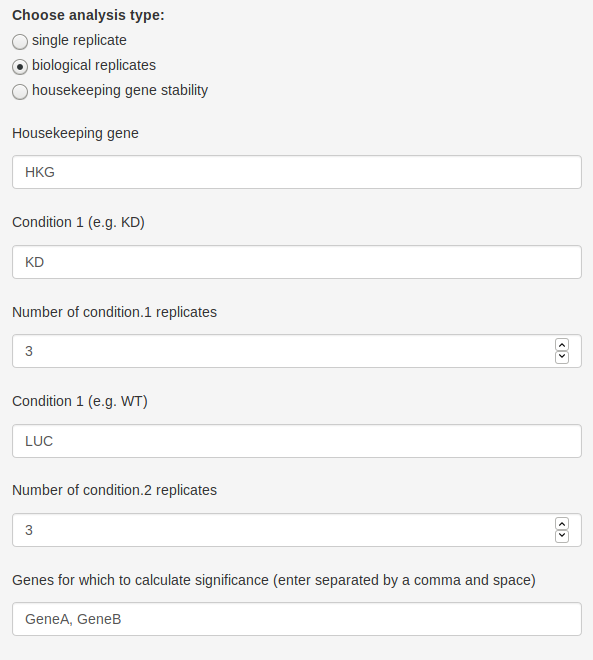
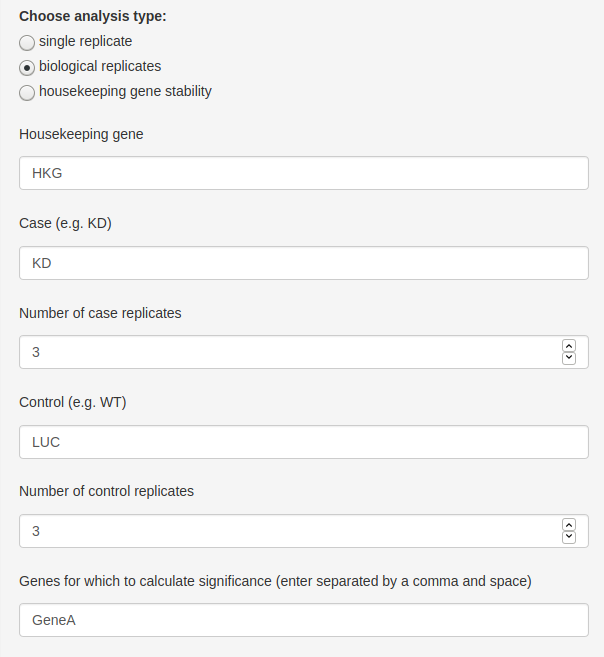
Update shiny app usage documentation

diff --git a/vignettes/shiny_app_usage_github.md b/vignettes/shiny_app_usage_github.md
@@ -127,7 +127,7 @@ The number of replicates defaults to 3, but this can be changed to match whateve
 
 <img src="bioreps_filled_fields.png" width="80%" height="100%" />
 
-Here, the user enters the requested information, then clicks the "Run Analysis!" button. The "Housekeeping gene" field is where the user inputs the gene to be used as the housekeeping for calculations. As before, I have used a generic "HKG" as an example. Case and Control are where you enter the information for the two groups of your samples. Looking at the samplesheet snippet, my two groups are "KD" and "LUC" (a luciferase control). If needed, change the number of replicates to match the number of biological replicates you have - I happen to have 3. The last field is where you enter the genes for which statistical tests need to be computed - this is a two-sample T.test using the `t.test` function in R. The genes *must* be entered as shown - i.e. text separated by a comma then a space. Gene names are whatever was entered for the "Detector" field in the samplesheet.
+Here, the user enters the requested information, then clicks the "Run Analysis!" button. The "Housekeeping gene" field is where the user inputs the gene to be used as the housekeeping for calculations. As before, I have used a generic "HKG" as an example. Case and Control are where you enter the information for the two groups of your samples ("Case" being the test/experimental condition, "Control" being the control condition). Looking at the samplesheet snippet, my two groups are "KD" and "LUC" (a luciferase control), respectively. If needed, change the number of replicates to match the number of biological replicates you have - I happen to have 3. The last field is where you enter the genes for which statistical tests need to be computed - this is a two-sample T.test using the `t.test` function in R. The genes *must* be entered as shown - i.e. text separated by a comma then a space. Gene names are whatever was entered for the "Detector" field in the samplesheet.
 
 **Step 4: Download data.**
 
